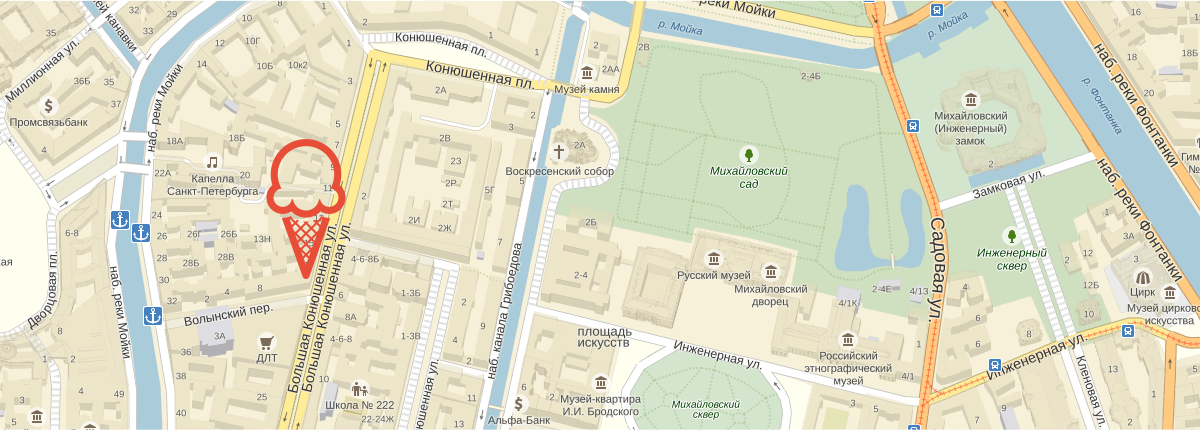
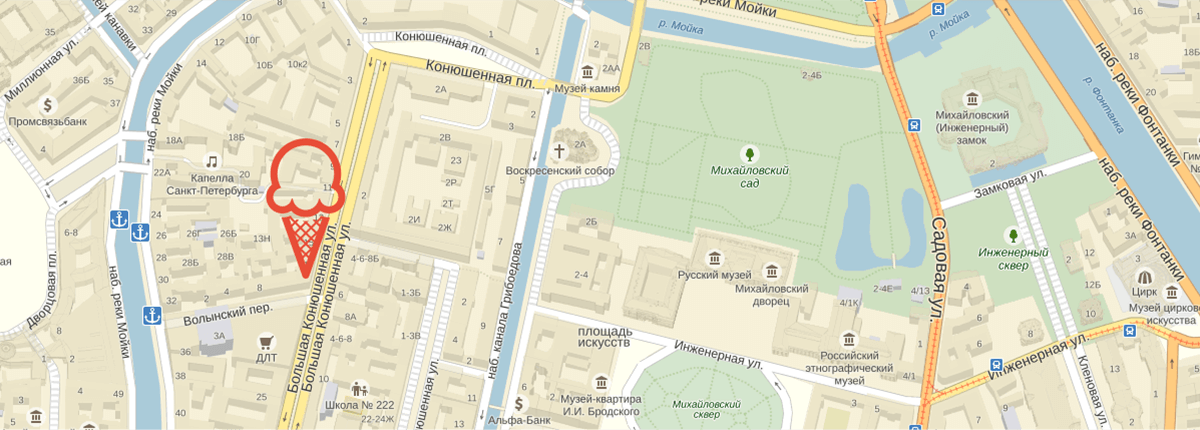
Правки по ревью, исправление верстки карты на главной.

diff --git a/index.html b/index.html
@@ -357,24 +357,27 @@
       </div>
 
       <section class="location">
-        <h2 class="visually-hidden">Наш адрес и телефон</h2>
+        <div class="container">
+          <h2 class="visually-hidden">Наш адрес и телефон</h2>
 
-        <div class="location-contacts">
-          <p class="location-contacts-text">
-            Адрес главного офиса<br>
-            и офлайн-магазина:
-            <strong class="location-contacts-text-address">ул. Большая Конюшенная 19/8, Санкт-Петербург</strong>
-          </p>
+          <div class="location-contacts">
+            <p class="location-contacts-text">
+              Адрес главного офиса<br>
+              и офлайн-магазина:
 
-          <p class="location-contacts-text">
-            Для заказов по телефону:
-            <a href="tel:+78124502525" class="location-contacts-text-phone">8 812 450-25-25</a>
-            <span class="location-contacts-text-info">(с 10 до 20 ежедневно)</span>
-          </p>
+              <strong class="location-contacts-text-address">ул. Большая Конюшенная 19/8, Санкт-Петербург</strong>
+            </p>
 
-          <p class="location-contacts-actions">
-            <button class="button js-feedback-dialog-button" type="button">Форма обратной связи</button>
-          </p>
+            <p class="location-contacts-text">
+              Для заказов по телефону:
+              <a href="tel:+78124502525" class="location-contacts-text-phone">8 812 450-25-25</a>
+              <span class="location-contacts-text-info">(с 10 до 20 ежедневно)</span>
+            </p>
+
+            <p class="location-contacts-actions">
+              <button class="button js-feedback-dialog-button" type="button">Форма обратной связи</button>
+            </p>
+          </div>
         </div>
 
         <p class="location-map">

diff --git a/css/style.css b/css/style.css
@@ -1297,12 +1297,13 @@ body {
 
 .location {
   position: relative;
+  z-index: 1;
+  padding: 60px 0;
+}
+
+.location .container {
   display: flex;
-  height: 430px;
-  margin-left: calc(-50vmax + 600px - 27px);
-  margin-right: calc(-50vmax + 600px - 27px);
-  padding-left: calc(50vmax - 600px + 27px);
-  padding-right: calc(50vmax - 600px + 27px);
+  min-height: 310px;
 }
 
 .location-map {
@@ -1311,18 +1312,20 @@ body {
   right: 0;
   bottom: 0;
   left: 0;
+  z-index: -1;
   margin: 0;
+  overflow: hidden;
 }
 
 .location-map img {
+  display: block;
   width: 100%;
+  height: auto;
 }
 
 .location-contacts {
-  position: relative;
-  z-index: 1;
   box-sizing: border-box;
-  width: 302px;
+  width: 300px;
   margin: auto 0 auto auto;
   padding: 30px 25px;
   font-size: 14px;
@@ -1338,8 +1341,7 @@ body {
 
 .location-contacts-text-address {
   display: block;
-  margin-top: 2px;
-  margin-bottom: 16px;
+  margin: 2px 0 16px;
   font-size: 18px;
   line-height: 24px;
   font-weight: 700;
@@ -1357,12 +1359,11 @@ body {
 
 .location-contacts-text-info {
   display: block;
-  margin-bottom: 24px;
   line-height: 22px;
 }
 
 .location-contacts-actions {
-  margin: 0;
+  margin: 24px 0 0;
 }
 
 .location-contacts-actions .button {
